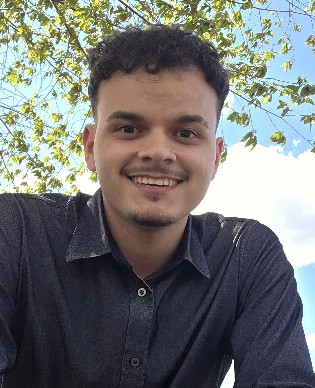
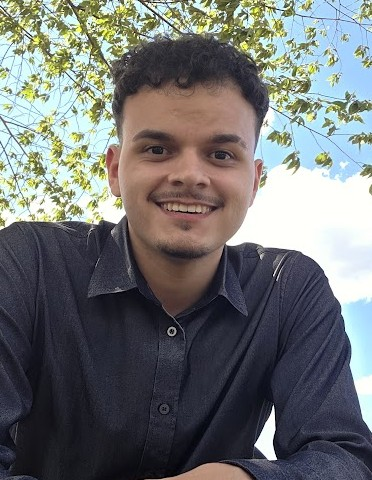
'sobre' feito e NavBar fixada no topo

diff --git a/src/componentes/Sobre.jsx b/src/componentes/Sobre.jsx
@@ -1,36 +1,37 @@
-import React from 'react';
-import foto from '../assets/foto-minha.jpg';
-import '../styles/sobre.css';
+import React from "react";
+import foto from "../assets/foto-minha.jpg";
+import "../styles/sobre.css";
 
 function Sobre() {
   return (
     <div className="sobre">
-      <div className="titulo">
-        <h1>Sobre Mim</h1>
-      </div>
-      <div className="texto-destacado">
-        <p className="frase">
-          Estudante de Engenharia de Software & Dev Full Stack
-        </p>
-        <div className="texto">
-          <p>
-            Sou estudante de Engenharia de Software, focado em desenvolvimento
-            Full Stack. Atualmente estou me aprofundando em tecnologias
-            front-end para criar interfaces mais intuitivas e performáticas.
+      <div className="conteudo-sobre">
+        <div className="conteudo-texto-sobre">
+          <h1 className="titulo-sobre">Sobre Mim</h1>
+
+          <p className="frase">
+            Estudante de Engenharia de Software & Dev Full Stack
           </p>
-          <p>
-            Minha jornada combina a base teórica da faculdade com projetos
-            práticos, buscando sempre aplicar o que aprendo em soluções reais.
-            Acredito que um bom desenvolvedor precisa entender toda a stack.
-          </p>
-          <p>
-            Quando não estou codando, você pode me encontrar estudando novas
-            tecnologias, c ontribuindo em projetos open source ou explorando as
-            últimas tendências do desenvolvimento web.
-          </p>
+          <div className="texto-sobre">
+            <p>
+              Sou estudante de Engenharia de Software, focado em desenvolvimento
+              Full Stack. Atualmente estou me aprofundando em tecnologias
+              front-end para criar interfaces mais intuitivas e performáticas.
+            </p>
+            <p>
+              Minha jornada combina a base teórica da faculdade com projetos
+              práticos, buscando sempre aplicar o que aprendo em soluções reais.
+              Acredito que um bom desenvolvedor precisa entender toda a stack.
+            </p>
+            <p>
+              Quando não estou codando, você pode me encontrar estudando novas
+              tecnologias, contribuindo em projetos open source ou explorando as
+              últimas tendências do desenvolvimento web.
+            </p>
+          </div>
         </div>
-        <div className='foto'>
-            <img src={ foto } alt="fundo" />
+        <div className="sessao-foto">
+          <img src={foto} alt="fundo" className="foto-sobre" />
         </div>
       </div>
     </div>

diff --git a/src/styles/sobre.css b/src/styles/sobre.css
@@ -1,5 +1,58 @@
+@import url('https://fonts.googleapis.com/css2?family=Jura:wght@300..700&display=swap');
+@import url('https://fonts.googleapis.com/css2?family=Inter:ital,opsz,wght@0,14..32,100..900;1,14..32,100..900&family=Jura:wght@300..700&display=swap');
+
 .sobre{
-    background-color: black;
     background-image: url('../assets/fotos-fundos/fundo2.png');
+    color: white;
+    background-color: black;
+    background-position: center;
+    background-repeat: no-repeat;
+    background-size: cover;
+
+    flex-direction: column;
+    display: flex;
+    padding: 50px;
+
+    min-height: 100vh;
+}
+.titulo-sobre{
+    font-family: "Jura", sans-serif;
+    font-weight: 600;
+    font-size: 3.5rem;
+}
+.frase{
+    padding: 0px 0px;
+    font-size: 4.2rem;
+    width: 100%;
+    font-weight: 500;
+    color: #1194c4c5;
+    line-height: 1.2;
+}
+
+.texto-sobre{
+    font-size: 1.6rem;
+    width: 85%;
+    text-align: justify;
+}
+.sessao-foto{
+    flex: 1;
+    display: flex;
+    margin-top: 4%;
+}
+.foto-sobre{
+    width: 100%;
+    max-width: 450px;
+    border-radius: 50%;
+    border: 2px solid #1194c4c5 ;
+    box-shadow:  0px 0px 25px #eeeeee2d;
     
+}
+.conteudo-sobre {
+    display: flex;
+    justify-content: space-between;
+    align-items: flex-start; /* FAZ A FOTO SUBIR: Alinha tudo pelo topo */
+    gap: 0px;
+}
+.conteudo-texto-sobre{
+    flex: 2.0;
 }

diff --git a/src/styles/navbar.css b/src/styles/navbar.css
@@ -1,14 +1,22 @@
+
+
 .navbar{
-    background-color: black;
+    max-width: 100%!important;
+    background-color: black!important;
+    overflow: hidden!important;
+    position: fixed!important;
+    top: 0!important;
+    width: 100%!important;
 }
 
 .navbar-brand{
+    padding: 0px 50px;
     color: #05A0CA !important; 
     font-weight: bold;
     font-size: 2rem !important;
 }
 .navegacao{
-    margin-right: 15%;
+    margin-right: 20%;
 }
 
 .navegacao .nav-link{
@@ -17,7 +25,8 @@
     font-family: 'Inter', sans-serif; 
     transition: 0.3s;
     opacity: 80%;
-    margin-left: 8%;
+    margin-left: 9%;
+    width: 100%;
 }
 
 .navegacao .nav-link:hover {

diff --git a/src/styles/inicio.css b/src/styles/inicio.css
@@ -3,13 +3,13 @@
 
 .inicio{
     margin: 0;
-    padding: 4%;
+    padding: 10%;
     background-color: black;
     background-image: url('../assets/fotos-fundos/fundo1.png');
     background-size: cover;
     background-position: center;
     background-repeat: no-repeat;
-    min-height: 89vh;
+    min-height: 100vh;
     display: flex;
     flex-direction: column;
     justify-content: center;

diff --git a/src/componentes/NavBar.jsx b/src/componentes/NavBar.jsx
@@ -6,7 +6,7 @@ import '../styles/NavBar.css';
 
 function NavBar(){
     return(
-        <Navbar>
+        <Navbar fixed='top' className='navbar-completo'>
             <Container className='navbar'>
                 
                 <Navbar.Brand href="#home">Port. </Navbar.Brand>
